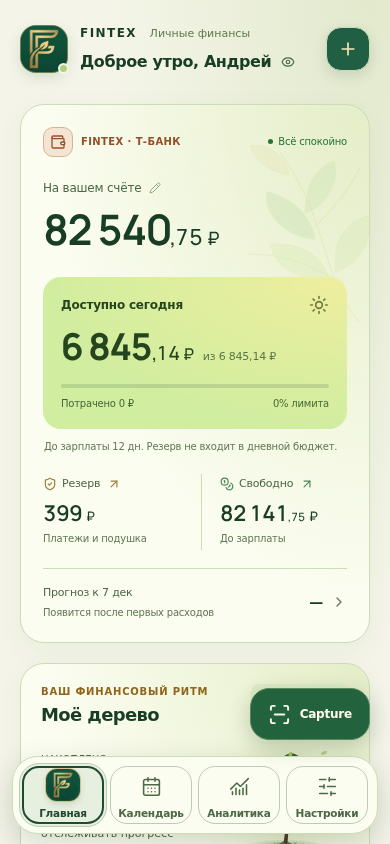
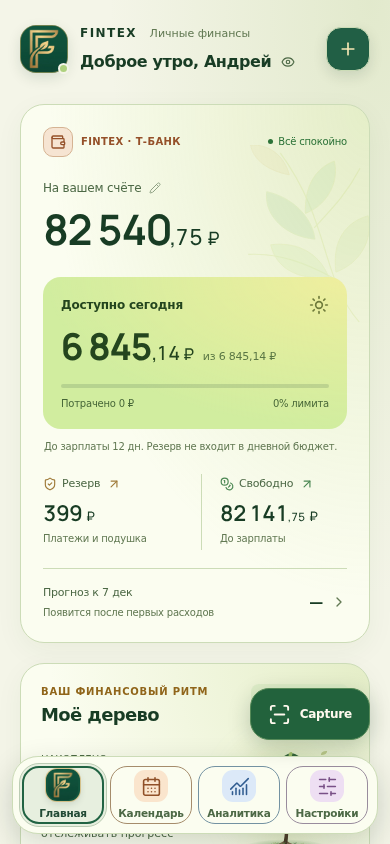
Colour navigation, refine savings pace and add falling tree leaves

diff --git a/design-system.css b/design-system.css
@@ -865,9 +865,9 @@ body #filely-financial-tree .ft-wind-leaf:nth-child(3) { left: 83%; top: 48%; wi
 @keyframes ft-tree-flex { 0%, 100% { transform: skewX(-1.4deg); } 50% { transform: skewX(1.8deg) translateY(-1px); } }
 @keyframes ft-leaf-drift { 0%, 100% { transform: translate(-3px, 3px) rotate(-20deg); opacity: .35; } 50% { transform: translate(9px, -6px) rotate(28deg); opacity: .8; } }
 @keyframes ft-tree-light { 0%, 100% { opacity: .45; transform: scale(.94); } 50% { opacity: .85; transform: scale(1.08); } }
-body #filely-financial-tree[data-animation-paused='true'] :is(.ft-art-motion, .ft-aura, .ft-img, .ft-svg-art, .ft-wind-leaf) { animation-play-state: paused; }
-html.no-motion body #filely-financial-tree :is(.ft-art-motion, .ft-aura, .ft-img, .ft-svg-art, .ft-wind-leaf) { animation: none !important; }
-@media(prefers-reduced-motion:reduce) { body #filely-financial-tree :is(.ft-art-motion, .ft-aura, .ft-img, .ft-svg-art, .ft-wind-leaf) { animation: none !important; } }
+body #filely-financial-tree[data-animation-paused='true'] :is(.ft-art-motion, .ft-aura, .ft-img, .ft-svg-art, .ft-wind-leaf, .ft-falling-leaf) { animation-play-state: paused; }
+html.no-motion body #filely-financial-tree :is(.ft-art-motion, .ft-aura, .ft-img, .ft-svg-art, .ft-wind-leaf, .ft-falling-leaf) { animation: none !important; }
+@media(prefers-reduced-motion:reduce) { body #filely-financial-tree :is(.ft-art-motion, .ft-aura, .ft-img, .ft-svg-art, .ft-wind-leaf, .ft-falling-leaf) { animation: none !important; } }
 
 body #filely-financial-tree .ft-kicker { font-weight: 700; text-transform: uppercase; }
 
@@ -1437,3 +1437,59 @@ body.stealth-mode .ap-period-information { visibility: hidden; }
   body .ap-period-metrics > div > span { font-size: 9px; }
   body .ap-period-metrics > div + div { padding-left: 10px; }
 }
+
+/* v54 · coloured destinations, a deliberate savings planner, and falling leaves. */
+body #fintex-navigation [data-nav='home'] { --tab-colour: #216343; --tab-soft: #e0efd7; }
+body #fintex-navigation [data-nav='calendar'] { --tab-colour: #905028; --tab-soft: #fae5cd; }
+body #fintex-navigation [data-nav='analytics'] { --tab-colour: #315d91; --tab-soft: #dce9f8; }
+body #fintex-navigation [data-nav='settings'] { --tab-colour: #795087; --tab-soft: #eedff3; }
+body #fintex-navigation .nav-tab .nav-icon { background: var(--tab-soft); color: var(--tab-colour); }
+body #fintex-navigation .nav-tab::after { border-color: color-mix(in srgb, var(--tab-colour) 52%, var(--nav-edge)); }
+body #fintex-navigation .nav-tab.is-active-tab::after { border-color: var(--tab-colour); }
+body #fintex-navigation .nav-tab.is-active-tab .nav-icon { background: var(--tab-colour); color: #fffdf7; }
+body #fintex-navigation .nav-tab .nav-icon-brand, body #fintex-navigation .nav-tab.is-active-tab .nav-icon-brand { background: #10543d; }
+html.dark body #fintex-navigation .nav-tab::after { border-color: color-mix(in srgb, var(--tab-soft) 55%, var(--nav-edge)); }
+html.dark body #fintex-navigation .nav-tab.is-active-tab::after { border-color: var(--tab-soft); }
+@media(hover:hover) { body #fintex-navigation .nav-tab:hover:not(.is-active-tab) .nav-icon { background: var(--tab-soft); color: var(--tab-colour); box-shadow: 0 0 0 1px var(--tab-colour); } }
+body .behavior-panel .behavior-planner { margin: 24px 0 20px; border: 1px solid var(--border-subtle); background: var(--surface-1); border-radius: 22px; overflow: hidden; }
+body .behavior-panel .behavior-planner > summary { justify-content: flex-start; padding: 20px; gap: 12px; }
+body .behavior-panel .behavior-planner > summary::after { margin-left: auto; }
+body .savings-planner-icon { width: 38px; height: 38px; flex-shrink: 0; display: grid; place-items: center; color: var(--accent); background: var(--surface-2); border: 1px solid var(--border-subtle); border-radius: 13px; }
+body .savings-planner-icon svg { width: 20px; height: 20px; stroke-width: 1.5; }
+body .savings-planner-title { min-width: 0; }
+body .savings-planner-title strong { display: block; font-size: 16px; font-weight: 650; line-height: 1.3; letter-spacing: -.025em; }
+body .savings-planner-title small { display: block; color: var(--text-secondary); font-size: 10px; font-weight: 400; margin-top: 6px; }
+body .savings-planner-body { padding: 0 20px 20px; }
+body .savings-planner-body > .behavior-copy { border-top: 1px solid var(--border-subtle); padding-top: 16px; margin: 0 0 18px; font-size: 11px; }
+body .savings-fields { display: grid; grid-template-columns: repeat(2,minmax(0,1fr)); gap: 10px; }
+body .savings-fields label { margin: 0; padding: 12px; background: var(--surface-2); border-radius: 13px; min-width: 0; }
+body .savings-fields label > span { display: block; font-size: 9px; color: var(--text-secondary); line-height: 1.6; min-height: 29px; }
+body .behavior-panel .savings-fields input { border: 0; border-bottom: 1px solid var(--border-active); border-radius: 0; padding: 9px 0; margin-top: 4px; min-height: 44px; background: transparent; font-size: 18px; font-weight: 600; letter-spacing: -.03em; }
+body .savings-fields input::placeholder { font-size: 11px; font-weight: 400; letter-spacing: 0; color: var(--text-secondary); }
+body .savings-preview { padding: 18px; margin: 14px 0; border: 1px solid var(--border-subtle); border-radius: 15px; background: var(--hero-wash), var(--surface-1); }
+body .savings-preview > span { display: block; font-size: 10px; color: var(--text-secondary); }
+body .savings-preview > strong { display: block; font-size: 30px; font-weight: 600; letter-spacing: -.04em; color: var(--number-ink, var(--text-primary)); margin: 8px 0; overflow-wrap: anywhere; }
+body .savings-preview > small { display: block; color: var(--text-secondary); font-size: 10px; line-height: 1.7; }
+body .savings-history { border-top: 1px solid var(--border-subtle); margin-top: 20px; padding-top: 18px; }
+body .savings-history-label { display: flex; align-items: center; gap: 7px; font-size: 11px; font-weight: 600; color: var(--gold); }
+body .savings-history-label svg { width: 14px; height: 14px; }
+body .savings-history .behavior-copy { font-size: 11px; }
+body #filely-financial-tree .ft-falling-leaves { position: absolute; inset: 0; overflow: hidden; pointer-events: none; }
+body #filely-financial-tree .ft-falling-leaf { --fall-x: 20px; --fall-distance: 120px; position: absolute; display: block; left: 32%; top: 14%; width: 10px; height: 6px; border-radius: 85% 0 85% 0; background: #8ba34e; border-bottom: 1px solid rgba(83,98,35,.35); opacity: 0; animation: ft-leaf-fall 6.8s linear infinite; animation-delay: -1.2s; }
+body #filely-financial-tree .ft-falling-leaf:nth-child(2) { --fall-x: -22px; --fall-distance: 105px; left: 68%; top: 22%; width: 8px; height: 5px; background: #c6a45b; animation-duration: 7.6s; animation-delay: -4.3s; }
+body #filely-financial-tree .ft-falling-leaf:nth-child(3) { --fall-x: 30px; left: 42%; top: 8%; width: 7px; height: 5px; background: #a7ba65; animation-duration: 5.9s; animation-delay: -3.4s; }
+body #filely-financial-tree .ft-falling-leaf:nth-child(4) { --fall-x: -30px; --fall-distance: 90px; left: 76%; top: 32%; width: 9px; height: 5px; background: #8fa268; animation-duration: 8.3s; animation-delay: -6.2s; }
+body #filely-financial-tree .ft-falling-leaf:nth-child(5) { --fall-x: 16px; --fall-distance: 95px; left: 24%; top: 30%; width: 6px; height: 4px; background: #b89b51; animation-duration: 7.1s; animation-delay: -5.1s; }
+body #filely-financial-tree .ft-falling-leaf:nth-child(6) { --fall-x: -14px; --fall-distance: 110px; left: 57%; top: 16%; width: 8px; height: 5px; background: #a0b873; animation-duration: 8.8s; animation-delay: -.3s; }
+@keyframes ft-leaf-fall {
+  0% { transform: translate(0,-8px) rotate(-25deg) scaleX(1); opacity: 0; }
+  12% { opacity: .9; }
+  35% { transform: translate(calc(var(--fall-x) * .8),calc(var(--fall-distance) * .28)) rotate(70deg) scaleX(.45); }
+  60% { transform: translate(calc(var(--fall-x) * -.3),calc(var(--fall-distance) * .6)) rotate(155deg) scaleX(-.8); opacity: .8; }
+  82% { transform: translate(calc(var(--fall-x) * .6),calc(var(--fall-distance) * .86)) rotate(225deg) scaleX(.6); opacity: .6; }
+  100% { transform: translate(var(--fall-x),var(--fall-distance)) rotate(310deg) scaleX(1); opacity: 0; }
+}
+body #filely-financial-tree[data-animation-paused='true'] .ft-falling-leaf { animation-play-state: paused; }
+html.no-motion body #filely-financial-tree .ft-falling-leaves { display: none; }
+@media(prefers-reduced-motion:reduce) { body #filely-financial-tree .ft-falling-leaves { display: none; } }
+@media(max-width:359px) { body .behavior-panel .behavior-planner > summary { padding: 16px; gap: 10px; } body .savings-planner-title strong { font-size: 15px; } body .savings-planner-body { padding: 0 16px 16px; } body .savings-fields label { padding: 10px; } }

diff --git a/behavior.js b/behavior.js
@@ -7,6 +7,7 @@
   function today(){return typeof TODAY==='string'?TODAY:FintexMath.key(new Date());}
   function initial(){const data=load();if(!data.observedSince){data.observedSince=today();store(data);}return data;}
   const esc=value=>String(value??'').replace(/[&<>"']/g,c=>({'&':'&amp;','<':'&lt;','>':'&gt;','"':'&quot;',"'":'&#39;'}[c]));
+  const fieldMoney=n=>n===''?'':Number(n).toLocaleString('ru-RU',{maximumFractionDigits:2});
   const money=n=>`${Number(n).toLocaleString('ru-RU',{maximumFractionDigits:2})} ₽`;
   const date=d=>{if(FintexMath.ordinal(d)===null)return '—';const [y,m,day]=String(d).split('-');return `${day}.${m}.${y}`;};
   const period=(from,to)=>`${date(from)} — ${date(to)}`;
@@ -26,15 +27,15 @@
   }
 
   function planner(result,data){
-    const p=result.planning,remaining=data.plan?.remaining??100000,monthly=data.plan?.monthly??'';
+    const p=result.planning,remaining=data.plan?.remaining??'',monthly=data.plan?.monthly??'';
     let estimate='';
     if(p){
       const months=remaining>0?Math.ceil(remaining/p.monthly):0;
-      estimate=`<p class="behavior-copy">Ориентир для сравнения — <strong>${money(p.monthly)} в месяц</strong>, примерно ${months} мес. на указанную оставшуюся сумму, без доходности и инфляции.</p><p class="behavior-evidence">Основа: ${p.months} полных месяцев · ${period(p.from,p.to)}. ${p.basis==='saving'?'Нижний квартиль чистых пополнений подушки.':'Половина нижнего квартиля разницы записанных поступлений и расходов в месяцах с доходами. Это не факт накопления и не оценка всех обязательств.'} Это сценарий, не гарантия устойчивости.</p>`;
+      estimate=`<p class="behavior-copy">Ориентир для сравнения — <strong>${money(p.monthly)} в месяц</strong>, ${remaining>0?`примерно ${months} мес. на указанную оставшуюся сумму`:'срок можно рассчитать после ввода оставшейся суммы'}, без доходности и инфляции.</p><p class="behavior-evidence">Основа: ${p.months} полных месяцев · ${period(p.from,p.to)}. ${p.basis==='saving'?'Нижний квартиль чистых пополнений подушки.':'Половина нижнего квартиля разницы записанных поступлений и расходов в месяцах с доходами. Это не факт накопления и не оценка всех обязательств.'} Это сценарий, не гарантия устойчивости.</p>`;
       if(Number(monthly)>p.monthly)estimate+='<p class="behavior-note">Ваш темп выше этого ориентира. Он может быть достижим — проверьте будущие доходы и обязательства, которых нет в журнале.</p>';
     }else if(result.planningReason==='nonpositive')estimate='<p class="behavior-copy">Истории уже достаточно для сравнения, но положительный ежемесячный темп по ней не подтверждён. Не будем рекомендовать сумму, которую эти записи не поддерживают. Вы можете сохранить собственный план и проверить его после новых наблюдений.</p>';
     else estimate='<p class="behavior-copy">Для персонального ориентира пока мало истории: нужны 3 полных месяца с поступлениями и хотя бы 12 днями расходов, либо 3 месяца наблюдения за подушкой. Пока можно сохранить собственный план — мы не будем выдавать его за рекомендацию.</p>';
-    return `<details class="behavior-planner" data-behavior-detail="planner"><summary>Проверить темп накоплений</summary><p class="behavior-copy">Сравните свой план с доступной историей. Это сценарий для размышления, не обязательство и не гарантия результата.</p><form id="behavior-plan-form"><label>Осталось накопить, ₽<input name="remaining" inputmode="decimal" value="${esc(remaining)}" required></label><label>Ваш темп в месяц, ₽<input name="monthly" inputmode="decimal" value="${esc(monthly)}" placeholder="Укажите комфортную сумму" required></label><button type="submit" class="behavior-primary">Сохранить мой план</button></form>${estimate}${data.plan?`<p class="behavior-evidence">Ваш план сохранён ${date(data.plan.date)}. ${data.planChanges>1?`Вы явно меняли его ${Math.min(data.planChanges-1,999)} раз; это не считается ошибкой.`:''} Баланс и цель в разделе подушки не меняются.</p>`:''}</details>`;
+    return `<details class="behavior-planner" data-behavior-detail="planner"><summary><span class="savings-planner-icon" aria-hidden="true"><i data-lucide="sprout"></i></span><span class="savings-planner-title"><strong>Темп накоплений</strong><small>Ваш план и ориентир по истории</small></span></summary><div class="savings-planner-body"><p class="behavior-copy">Сравните свой план с доступной историей. Это сценарий для размышления, не обязательство и не гарантия результата.</p><form id="behavior-plan-form"><div class="savings-fields"><label><span>Осталось накопить, ₽</span><input name="remaining" inputmode="decimal" value="${esc(fieldMoney(remaining))}" placeholder="Например, 100 000" required></label><label><span>Ваш темп в месяц, ₽</span><input name="monthly" inputmode="decimal" value="${esc(fieldMoney(monthly))}" placeholder="Например, 5 000" required></label></div><div class="savings-preview" aria-live="polite"><span>Срок по вашему плану</span><strong data-savings-duration>—</strong><small data-savings-explanation>Укажите сумму и ежемесячный взнос</small></div><button type="submit" class="behavior-primary">Сохранить мой план</button></form><div class="savings-history"><div class="savings-history-label"><i data-lucide="scan-text" aria-hidden="true"></i>Что видно по истории</div>${estimate}</div>${data.plan?`<p class="behavior-evidence">Ваш план сохранён ${date(data.plan.date)}. ${data.planChanges>1?`Вы явно меняли его ${Math.min(data.planChanges-1,999)} раз; это не считается ошибкой.`:''} Баланс и цель в разделе подушки не меняются.</p>`:''}</div></details>`;
   }
   function entryHTML(){
     const data=initial();
@@ -65,6 +66,15 @@
       else return;
       if(!store(data)){rerender('Не удалось сохранить реакцию в браузере.');return;}rerender(note);
     });
+    const planForm=panel.querySelector('#behavior-plan-form');
+    function updatePlanPreview(){
+      if(!planForm)return;
+      const remaining=FintexMath.parse(planForm.elements.remaining.value),monthly=FintexMath.parse(planForm.elements.monthly.value);
+      const valid=remaining>0&&monthly>0;
+      planForm.querySelector('[data-savings-duration]').textContent=valid?`${Math.ceil(remaining/monthly).toLocaleString('ru-RU')} мес.`:'—';
+      planForm.querySelector('[data-savings-explanation]').textContent=valid?'При неизменном взносе. Без доходности и инфляции; это сценарий, не гарантия.':'Укажите положительные суммы с точностью до копеек';
+    }
+    planForm?.addEventListener('input',updatePlanPreview);updatePlanPreview();
     panel.querySelector('#behavior-plan-form')?.addEventListener('submit',event=>{
       event.preventDefault();const fields=new FormData(event.target),remaining=FintexMath.parse(fields.get('remaining')),monthly=FintexMath.parse(fields.get('monthly'));
       if(!(remaining>0&&monthly>0)){panel.querySelector('.behavior-status').textContent='Укажите положительные суммы с точностью до копеек.';return;}

diff --git a/financial_tree.js b/financial_tree.js
@@ -37,7 +37,7 @@
       card=document.createElement('section');card.id=ROOT_ID;card.setAttribute('aria-labelledby','ft-title');
       card.innerHTML=`<div class="ft-head"><div><div class="ft-kicker">Ваш финансовый ритм</div><h3 id="ft-title" class="ft-title">Моё дерево</h3></div><span class="ft-stage" role="status" aria-live="polite"></span></div>
         <div class="ft-body"><div><div class="ft-label">Накоплено</div><div class="ft-saved"></div><div class="ft-sub"></div><div class="ft-bar"><span></span></div></div>
-        <button type="button" class="ft-art-wrap" aria-label="Открыть финансовую подушку"><span class="ft-aura" aria-hidden="true"></span><span class="ft-art-motion"><img class="ft-img" width="280" height="280" alt="" /></span><span class="ft-wind-leaves" aria-hidden="true"><i class="ft-wind-leaf"></i><i class="ft-wind-leaf"></i><i class="ft-wind-leaf"></i></span></button></div>
+        <button type="button" class="ft-art-wrap" aria-label="Открыть финансовую подушку"><span class="ft-aura" aria-hidden="true"></span><span class="ft-art-motion"><img class="ft-img" width="280" height="280" alt="" /></span><span class="ft-wind-leaves" aria-hidden="true"><i class="ft-wind-leaf"></i><i class="ft-wind-leaf"></i><i class="ft-wind-leaf"></i></span><span class="ft-falling-leaves" aria-hidden="true"><i class="ft-falling-leaf"></i><i class="ft-falling-leaf"></i><i class="ft-falling-leaf"></i><i class="ft-falling-leaf"></i><i class="ft-falling-leaf"></i><i class="ft-falling-leaf"></i></span></button></div>
         <div class="ft-foot"><div class="ft-note"></div><div class="ft-actions"><button type="button" class="ft-topup">+ Пополнить</button><button type="button" class="ft-more" aria-controls="ft-details">Подробнее</button></div></div>
         <div id="ft-details" class="ft-details" hidden><p class="ft-flow"></p><p>Вид зависит от записанных доходов и расходов за последние 30 календарных дней, включая сегодня. Переводы, снятие наличных, возвраты и операции без корректной даты не участвуют. Считаем только рубли.</p><p>Молодое дерево — пока нет обеих сторон учёта. Берёза — расходы выше доходов; ель — больше 90% и до 100%; клён — больше 70% и до 90%; дуб — до 70% включительно.</p><p>Это условный образ, не оценка вашего достатка и не прогноз. Крупная покупка или неполный учёт могут изменить вид. Накопления и прогресс цели показаны отдельно.</p></div>`;
       mount.append(card);

diff --git a/index.html b/index.html
@@ -18,7 +18,7 @@
   <script src="./appearance.js?v=41"></script>
   <script src="./cloud.js?v=39"></script>
   <link rel="stylesheet" href="./styles.css?v=22" />
-  <link rel="stylesheet" href="./design-system.css?v=53" />
+  <link rel="stylesheet" href="./design-system.css?v=54" />
 </head>
 <body class="max-w-md mx-auto min-h-screen relative select-none">
 
@@ -1873,10 +1873,10 @@
   <script src="./sim_pro.js?v=34" data-fintex-mod="sim_pro.js"></script>
   <script src="./stories_recap.js?v=34" data-fintex-mod="stories_recap.js"></script>
   <script src="./financial-tree-model.js?v=33"></script>
-  <script src="./financial_tree.js?v=48"></script>
+  <script src="./financial_tree.js?v=54"></script>
   <script src="./capture-model.js?v=43"></script>
   <script src="./capture.js?v=43"></script>
   <script src="./behavior-model.js?v=44"></script>
-  <script src="./behavior.js?v=52"></script>
+  <script src="./behavior.js?v=54"></script>
 </body>
 </html>

diff --git a/README.md b/README.md
@@ -259,3 +259,11 @@ npm run test:ui
 График расходов увеличен до 180px, получил денежную шкалу, календарные отметки, лёгкую заливку, линию выбранной даты и точку суммы. Касание/перетаскивание по графику и обычный ползунок выбирают день без перерисовки экрана; клавиатура поддерживается нативным ползунком (стрелки/Home/End). Над графиком отображаются полная дата, точная сумма до копеек и количество записей за день. Вертикальная прокрутка на сенсорных экранах остаётся доступной (`touch-action: pan-y`). Точки соединяются напрямую, без сглаживания и выдуманных промежуточных значений; показаны все 7/30/90/365 дней. Отсутствие расходных записей не приравнивается к доказанному отсутствию покупок.
 
 Новые график/сводка скрываются в режиме приватности. Проверены касание, мышь, клавиатура, копейки, пустые дни/периоды, доходы, переключение периодов, крупные суммы и шесть режимов оформления на 320px. Основные расчёты, финансовые записи, сервер, доступ и отключённые уведомления не менялись. Кэш интерфейса обновлён до v53.
+
+### Цветная панель, темп накоплений и листопад — v54
+
+Нижняя панель получила постоянные цветные площадки и обводки: зелёная «Главная» с оригинальным логотипом, тёплый янтарный календарь, синяя аналитика и сливовые настройки. Неактивные иконки тоже цветные; активная площадка насыщеннее, подписи и контраст сохранены в трёх палитрах/двух режимах.
+
+«Темп накоплений» оформлен отдельной раскрываемой карточкой с двумя полями, крупным сроком по собственному плану и отдельной областью «Что видно по истории». Срок обновляется при вводе: оставшаяся сумма / ежемесячный взнос с округлением вверх до месяцев. Это условный сценарий с постоянным взносом, без доходности и инфляции, не прогноз и не гарантия. Не заполненные поля не заменяются выдуманной целью. Сохранение — только по кнопке; баланс, подушка и операции не меняются. Существующий ориентир по истории и его ограничения сохранены. Сохранённые числа отображаются с русскими разделителями.
+
+У дерева добавлено шесть падающих листьев разного размера, зелёного/золотого оттенка, скорости и фазы. Листья плавно опускаются от кроны, покачиваются, переворачиваются и исчезают у основания; существующий сильный ветер сохранён. Используются только CSS transform/opacity и фиксированное число элементов — без генерации частиц по таймеру. Слои останавливаются при скрытии/выходе из экрана/переходе в другой раздел, а при отключении движения/системном reduced-motion листопад скрыт. Проверены падение по вертикали, ограниченное число элементов, пауза/выключение, 320px и неизменность финансовых данных.
